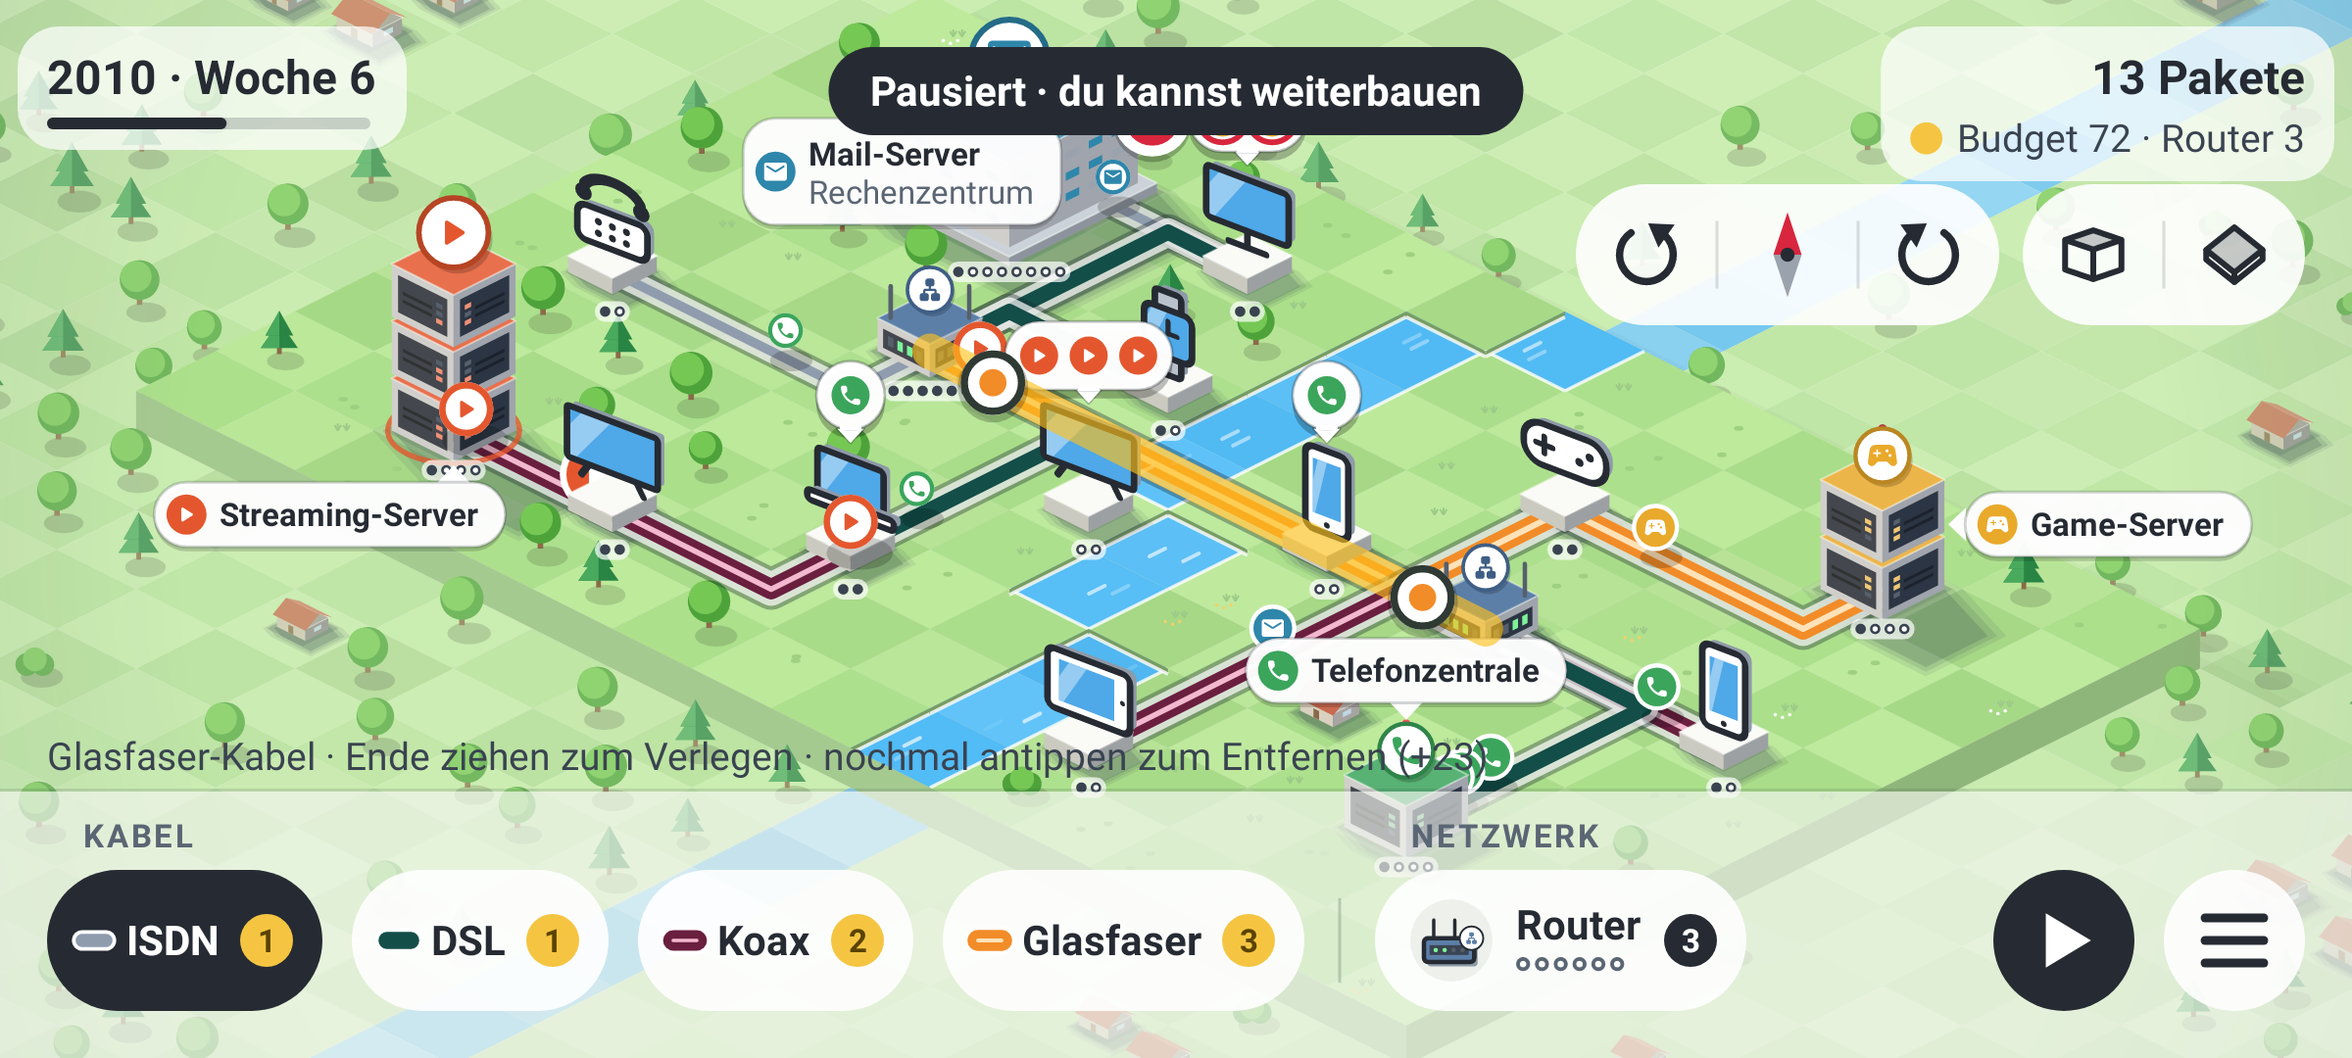
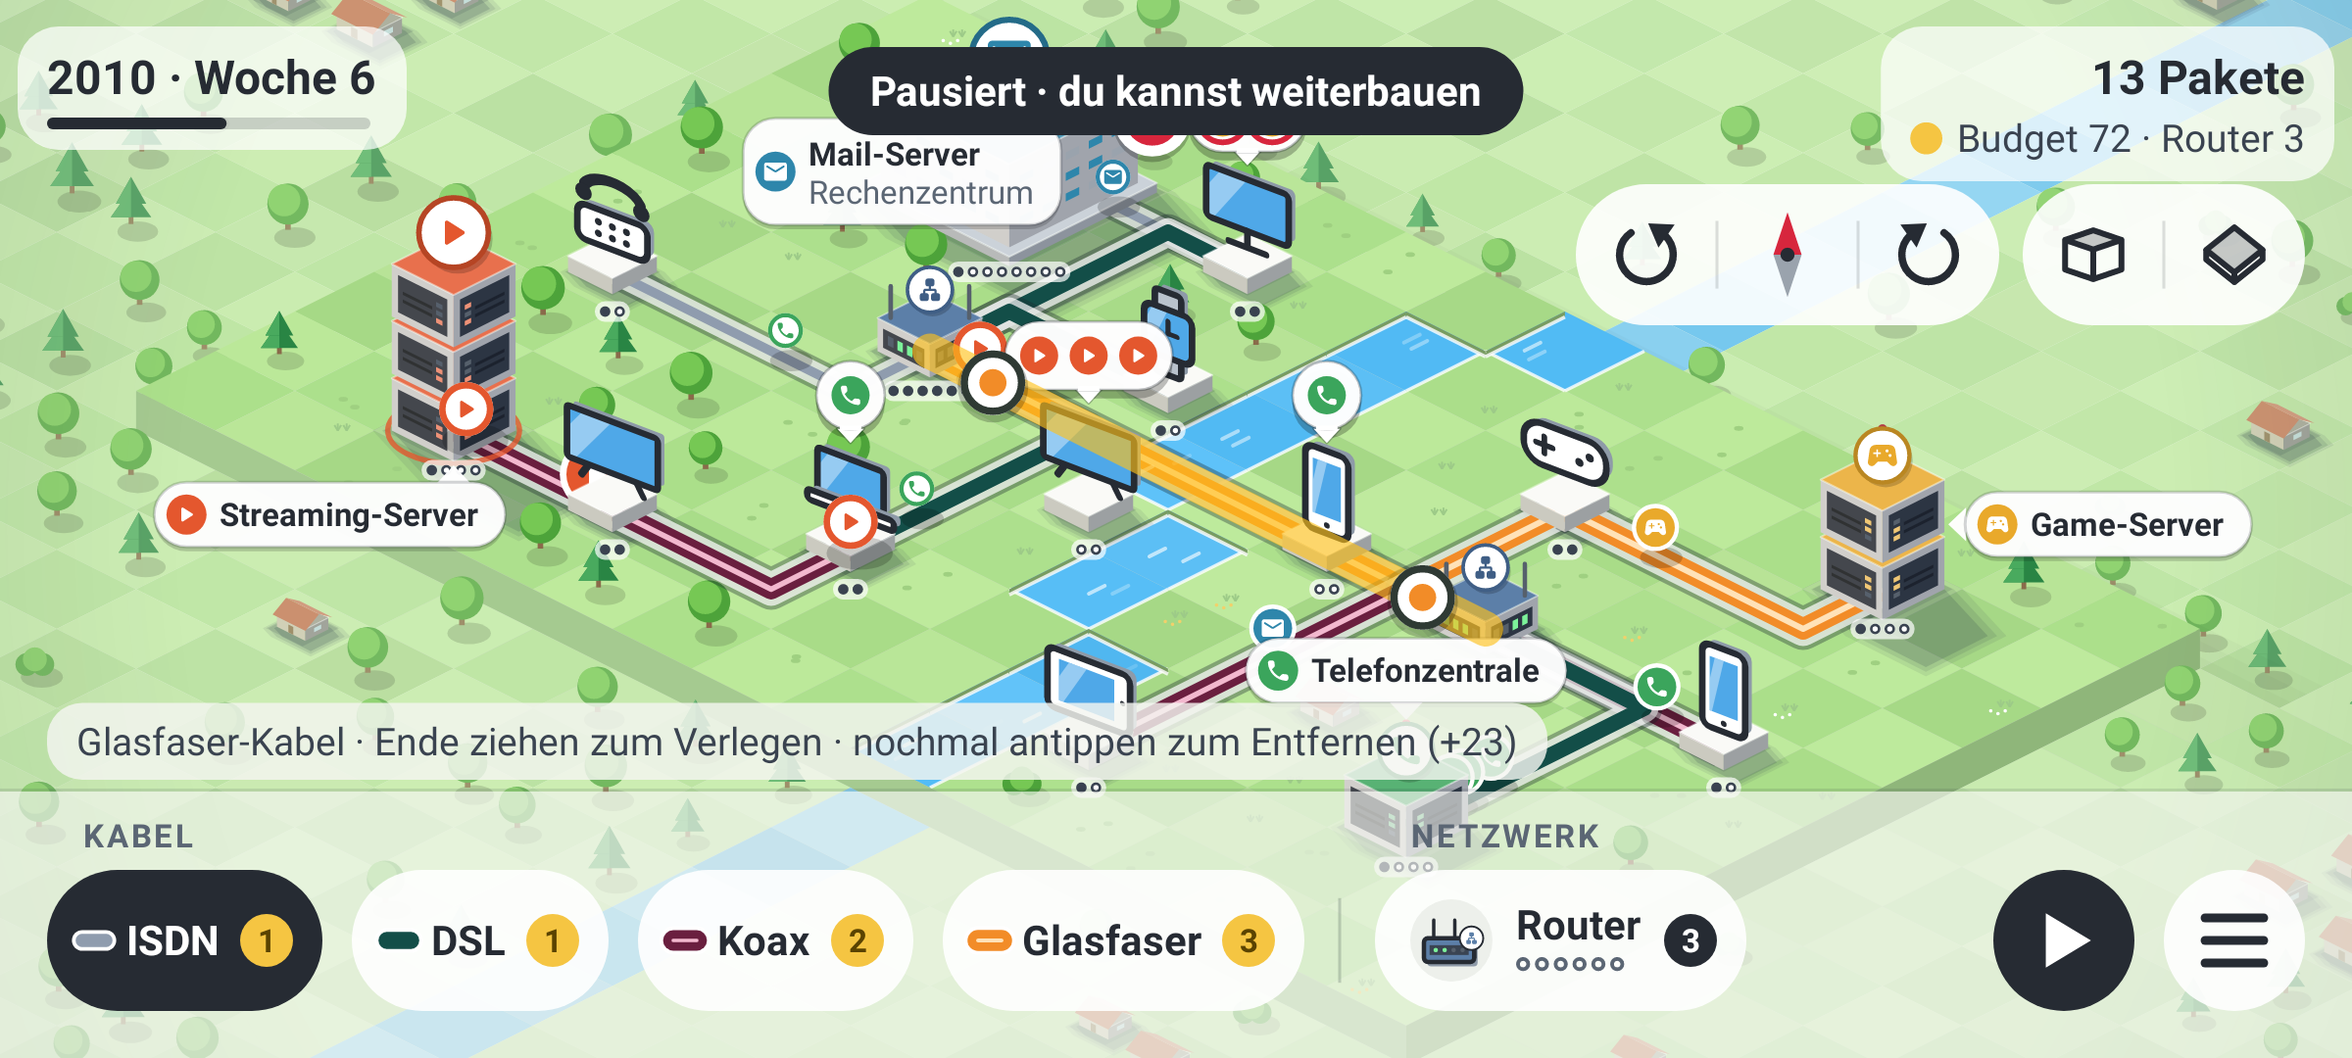
Polish HUD hint plate, keep drag bubble on screen, calm red port rings
Hint line gets a frosted rounded plate; the drag bubble flips below the
finger or clamps inside the safe area; only full nodes near the finger
get the red ring while dragging a cable.

Changed region(s): [[0.0, 0.6417, 0.6562, 0.7639]]

diff --git a/app/src/main/java/com/mininetworks/game/ui/GameView.kt b/app/src/main/java/com/mininetworks/game/ui/GameView.kt
@@ -510,6 +510,8 @@ class GameView(context: Context) : SurfaceView(context), SurfaceHolder.Callback 
     private val hudText = Paint(Paint.ANTI_ALIAS_FLAG).apply { color = 0xFF262B33.toInt(); typeface = Typeface.DEFAULT_BOLD; textSize = textScale.px(16f) }
     private val hudSub = Paint(Paint.ANTI_ALIAS_FLAG).apply { color = 0xFF3A4350.toInt(); textSize = textScale.px(13f) }
     private val hudPlate = fill(0xB8FFFFFF.toInt())
+    /** The plate under the hint line: the tray's frosted look, a little denser so text stays readable over buildings. */
+    private val hintPlate = fill(0xD2F4F6F1.toInt())
     private val btnFill = fill(0xE6FFFFFF.toInt())
     private val btnActive = fill(0xFF262B33.toInt())
     private val holdRing = Paint(Paint.ANTI_ALIAS_FLAG).apply { style = Paint.Style.STROKE; strokeCap = Paint.Cap.ROUND }
@@ -1821,7 +1823,9 @@ class GameView(context: Context) : SurfaceView(context), SurfaceHolder.Callback 
         drawTray(canvas, bar)
         drawToolbar(canvas, bar)
         // Above the whole toolbar, the raised network row too: a long word must never run into it.
-        val hintY = (bar.raised?.top ?: bar.trayTop) - hudSub.descent() - 4 * density
+        val hintPadX = HINT_PAD_X_DP * density
+        val hintPadY = HINT_PAD_Y_DP * density
+        val hintY = (bar.raised?.top ?: bar.trayTop) - hudSub.descent() - hintPadY - 4 * density
         // No hint under a menu card: the game-over card and the pause menu cover that spot.
         val hintText = when {
             screen != Screen.PLAYING -> null
@@ -1835,7 +1839,7 @@ class GameView(context: Context) : SurfaceView(context), SurfaceHolder.Callback 
             val lineH = hudSub.textSize * 1.3f
             // As many lines as fit between the top rows (and the centered lines) and the buttons (floor: a line that
             // would reach into the rows above does not count).
-            var room = floor((hintY - hudSub.textSize - maxOf(cursor, blocksBottom)) / lineH).toInt() + 1
+            var room = floor((hintY - hudSub.textSize - hintPadY - maxOf(cursor, blocksBottom)) / lineH).toInt() + 1
             if (room < 1 && controlsShown) {
                 // Not even one line below the view controls (a low window with large text): they step aside while the
                 // hint shows, and the paused pill may go back up beside the counters.
@@ -1845,24 +1849,27 @@ class GameView(context: Context) : SurfaceView(context), SurfaceHolder.Callback 
                     cursor = cursorWithoutBanner
                     banner = placePausedBanner(center, right - left, ::place)
                 }
-                room = floor((hintY - hudSub.textSize - maxOf(cursor, blocksBottom)) / lineH).toInt() + 1
+                room = floor((hintY - hudSub.textSize - hintPadY - maxOf(cursor, blocksBottom)) / lineH).toInt() + 1
             }
             if (room < 1 && banner != null) {
                 // Not even one line below the paused pill: the pause button shows the stopped clock anyway.
                 banner = null
-                room = floor((hintY - hudSub.textSize - maxOf(cursorWithoutBanner, blocksBottom)) / lineH).toInt() + 1
+                room = floor((hintY - hudSub.textSize - hintPadY - maxOf(cursorWithoutBanner, blocksBottom)) / lineH).toInt() + 1
             }
             // Service pictograms in the text ([InlineGlyphs]) are laid out as gaps and painted as tokens into them.
             val glyphs = InlineGlyphs.services(it)
-            val lines = wrapText(InlineGlyphs.layout(it), right - left, hudSub, room.coerceIn(1, MAX_HINT_LINES))
+            val lines = wrapText(InlineGlyphs.layout(it), right - left - 2 * hintPadX, hudSub, room.coerceIn(1, MAX_HINT_LINES))
+            val w = lines.maxOf { l -> hudSub.measureText(l) }
+            // A calm frosted plate (the tray's look) keeps the text readable over buildings; it hugs the wrapped lines.
+            val plate = RectF(left, hintY - (lines.size - 1) * lineH - hudSub.textSize - hintPadY, left + w + 2 * hintPadX, hintY + hudSub.descent() + hintPadY)
+            canvas.drawRoundRect(plate, HINT_RADIUS_DP * density, HINT_RADIUS_DP * density, hintPlate)
             var glyph = 0
             lines.forEachIndexed { i, line ->
                 val ly = hintY - (lines.size - 1 - i) * lineH
-                canvas.drawText(line, left, ly, hudSub)
-                if (glyphs.isNotEmpty()) glyph = InlineGlyphs.drawTokens(canvas, line, left, ly, hudSub, glyphs, glyph)
+                canvas.drawText(line, left + hintPadX, ly, hudSub)
+                if (glyphs.isNotEmpty()) glyph = InlineGlyphs.drawTokens(canvas, line, left + hintPadX, ly, hudSub, glyphs, glyph)
             }
-            val w = lines.maxOf { l -> hudSub.measureText(l) }
-            hudNodes += UiNode("hud:hint", RectF(left, hintY - (lines.size - 1) * lineH - hudSub.textSize, left + w, hintY + hudSub.descent()), InlineGlyphs.plain(it), UiNode.Kind.TEXT)
+            hudNodes += UiNode("hud:hint", plate, InlineGlyphs.plain(it), UiNode.Kind.TEXT)
         }
         banner?.let { drawPausedBanner(canvas, it) }
         if (controlsShown) {
@@ -4216,6 +4223,10 @@ class GameView(context: Context) : SurfaceView(context), SurfaceHolder.Callback 
         const val HINT_SECONDS = 2.5f
         /** Lines a long hint (or one in large text) wraps into above the bottom buttons. */
         const val MAX_HINT_LINES = 3
+        /** Padding (dp) around the hint line's text inside its backdrop plate, and the plate's corner radius. */
+        const val HINT_PAD_X_DP = 10f
+        const val HINT_PAD_Y_DP = 5f
+        const val HINT_RADIUS_DP = 12f
         /** How long the camera shows the failed device before the game-over card. */
         const val GAME_OVER_FOCUS_SECONDS = 1.6f
         /** Longer hints: what a new service needs, why a device is stuck. */

diff --git a/app/src/main/java/com/mininetworks/game/render/PortDots.kt b/app/src/main/java/com/mininetworks/game/render/PortDots.kt
@@ -5,17 +5,25 @@ import android.graphics.Paint
 import android.graphics.RectF
 import com.mininetworks.game.game.Node
 import com.mininetworks.game.game.World
+import kotlin.math.hypot
 
 /**
  * A node's cable ports as a small row of dots on a frosted pill, upright below the node in both styles: one dot per
  * port ([Node.maxPorts]), filled ink while a cable uses it, a hollow ring while free, so the map says that a PC takes
  * only 2 cables and a router 6. Calm by default and hidden below [MIN_UNIT_DP] of zoom; while a cable is dragged
  * ([emphasis]) the dragged node and the one under the finger show theirs larger with the free ports in blue, and every
- * node with no free port gets red dots and a red ring, at any zoom.
+ * node with no free port gets red dots at any zoom, with a red ring only where it matters: on the node under the
+ * finger and on those within [RING_RADIUS_CELLS] of it, so a busy map stays calm.
  */
 object PortDots {
-    /** How loud a row is: [CALM] on the map, [OPEN] at the ends of a dragged cable, [FULL] for a node a drag cannot use. */
-    enum class Emphasis { CALM, OPEN, FULL }
+    /**
+     * How loud a row is: [CALM] on the map, [OPEN] at the ends of a dragged cable, [FULL] for a node a drag cannot use
+     * near the finger (red dots and ring), [FULL_QUIET] for one farther off (red dots only).
+     */
+    enum class Emphasis { CALM, OPEN, FULL, FULL_QUIET }
+
+    /** Distance (cells) from the finger within which a full node also gets its red ring during a drag. */
+    const val RING_RADIUS_CELLS = 3f
 
     private const val INK = 0xFF3A4350.toInt()
     private const val FREE = 0xFFFFFFFF.toInt()
@@ -35,11 +43,16 @@ object PortDots {
 
     /**
      * How [n] shows its ports right now, or null for no row: with no [drag], [CALM] when [visible]; during a drag,
-     * [FULL] for every node without a free port, [OPEN] for the drag's start and target, [CALM] for the rest.
+     * a node without a free port is [FULL] if it is the target, the start or within [RING_RADIUS_CELLS] of the finger
+     * and [FULL_QUIET] otherwise, [OPEN] for the drag's start and target, [CALM] for the rest.
      */
     fun emphasis(world: World, n: Node, drag: DragPreview?, show: Boolean): Emphasis? {
         if (drag != null) {
-            if (world.ports(n) >= n.maxPorts) return Emphasis.FULL
+            if (world.ports(n) >= n.maxPorts) {
+                val c = n.footprintCenter
+                val near = n === drag.target || n === drag.from || hypot(c.x - drag.end.x, c.y - drag.end.y) <= RING_RADIUS_CELLS
+                return if (near) Emphasis.FULL else Emphasis.FULL_QUIET
+            }
             if (n === drag.from || n === drag.target) return Emphasis.OPEN
         }
         return if (show) Emphasis.CALM else null
@@ -56,7 +69,7 @@ object PortDots {
         val max = n.maxPorts
         val used = world.ports(n).coerceAtMost(max)
         val base = (unitPx * 0.045f).coerceIn(1.8f * density, 3.2f * density)
-        val r = if (emphasis == Emphasis.CALM) base else maxOf(base * 1.35f, 3f * density)
+        val r = if (emphasis == Emphasis.CALM || emphasis == Emphasis.FULL_QUIET) base else maxOf(base * 1.35f, 3f * density)
         val step = r * 2.75f
         val pad = r * 0.95f
         val w = (max - 1) * step + 2 * r + 2 * pad
@@ -69,9 +82,9 @@ object PortDots {
             canvas.drawOval(pill, ringP)
         }
         pill.set(cx - w / 2f, cy - h / 2f, cx + w / 2f, cy + h / 2f)
-        fillP.color = if (emphasis == Emphasis.CALM) 0xB3FFFFFF.toInt() else 0xF2FFFFFF.toInt()
+        fillP.color = if (emphasis == Emphasis.CALM || emphasis == Emphasis.FULL_QUIET) 0xB3FFFFFF.toInt() else 0xF2FFFFFF.toInt()
         canvas.drawRoundRect(pill, h / 2f, h / 2f, fillP)
-        if (emphasis != Emphasis.CALM) {
+        if (emphasis != Emphasis.CALM && emphasis != Emphasis.FULL_QUIET) {
             ringP.color = if (emphasis == Emphasis.FULL) FULL_RED else OPEN_RING
             ringP.strokeWidth = maxOf(1f * density, r * 0.3f)
             canvas.drawRoundRect(pill, h / 2f, h / 2f, ringP)
@@ -80,7 +93,7 @@ object PortDots {
         var x = cx - (max - 1) * step / 2f
         for (i in 0 until max) {
             if (i < used) {
-                fillP.color = if (emphasis == Emphasis.FULL) FULL_RED else INK
+                fillP.color = if (emphasis == Emphasis.FULL || emphasis == Emphasis.FULL_QUIET) FULL_RED else INK
                 canvas.drawCircle(x, cy, r, fillP)
             } else {
                 fillP.color = FREE

diff --git a/app/src/main/java/com/mininetworks/game/render/Renderer.kt b/app/src/main/java/com/mininetworks/game/render/Renderer.kt
@@ -915,6 +915,31 @@ object DragJuice {
     /** Screen box of the last [bubble], so the server plates ([ServerLabels]) can keep clear of it. */
     val lastBubble = RectF()
 
+    private val boundsRect = RectF()
+
+    /** The room for a [bubble] on [canvas]: the screen inside the camera's [insets] (safe area and HUD), or all of it where they leave none. */
+    fun bounds(canvas: Canvas, insets: ViewInsets): RectF {
+        boundsRect.set(insets.left, insets.top, canvas.width - insets.right, canvas.height - insets.bottom)
+        if (boundsRect.width() < 40f || boundsRect.height() < 40f) boundsRect.set(0f, 0f, canvas.width.toFloat(), canvas.height.toFloat())
+        return boundsRect
+    }
+
+    /**
+     * Puts a bubble of [w] by [h] for the point ([x], [y]) into [out], keeping [margin] to [bounds]: its bottom [lift]
+     * above the point, or, where its top would leave [bounds] (a [tail] tip included), its top [lift] below the point;
+     * then pushed inside vertically. Returns the centre x, clamped so the bubble stays between the side bounds.
+     */
+    internal fun place(w: Float, h: Float, x: Float, y: Float, lift: Float, tail: Float, margin: Float, bounds: RectF, out: RectF): Float {
+        val cx = if (w + 2 * margin >= bounds.width()) bounds.centerX() else x.coerceIn(bounds.left + margin + w / 2f, bounds.right - margin - w / 2f)
+        var top = y - lift - h
+        if (top < bounds.top + margin) top = y + lift
+        val low = bounds.bottom - margin - tail - h
+        val high = bounds.top + margin + tail
+        top = if (low < high) high else top.coerceIn(high, low)
+        out.set(cx - w / 2f, top, cx + w / 2f, top + h)
+        return cx
+    }
+
     /** The glow under a preview line [path] of stroke width [width] pixels in [color]. */
     fun glow(canvas: Canvas, path: Path, color: Int, width: Float) {
         glowP.color = color and 0xFFFFFF or 0x38000000
@@ -974,11 +999,12 @@ object DragJuice {
 
     /**
      * The bubble with [label] (and a smaller [detail] line) whose tail points at ([x], [y]), its bottom [lift] pixels
-     * above that point; [size] is the label's text size.
+     * above that point; [size] is the label's text size. The bubble stays inside [bounds] (the screen minus the safe
+     * area and the HUD): where it would clip at the top it flips below the point, tail up.
      */
     fun bubble(
         canvas: Canvas, label: String, detail: String?, x: Float, y: Float, lift: Float, size: Float, density: Float,
-        labelColor: Int, detailColor: Int, accent: Int,
+        labelColor: Int, detailColor: Int, accent: Int, bounds: RectF = RectF(0f, 0f, canvas.width.toFloat(), canvas.height.toFloat()),
     ) {
         textP.textSize = size
         val w1 = textP.measureText(label)
@@ -989,22 +1015,24 @@ object DragJuice {
         val padY = size * 0.5f
         val w = maxOf(w1, w2) + 2 * padX
         val h = size * 1.15f + (if (detail != null) detailSize * 1.25f else 0f) + 2 * padY
-        val bottom = y - lift
-        val cx = x.coerceIn(w / 2f + 8 * density, canvas.width - w / 2f - 8 * density)
-        rect.set(cx - w / 2f, bottom - h, cx + w / 2f, bottom)
+        val cx = place(w, h, x, y, lift, size * 0.5f, 8 * density, bounds, rect)
+        val flipped = rect.top > y
+        val bottom = rect.bottom
         val r = minOf(h / 2f, size * 0.9f)
         rect.offset(0f, 3f * density)
         canvas.drawRoundRect(rect, r, r, shadowP)
         rect.offset(0f, -3f * density)
         tail.reset()
         val tx = if (rect.width() > 2 * r) x.coerceIn(rect.left + r, rect.right - r) else rect.centerX()
-        tail.moveTo(tx - size * 0.45f, bottom - 1f)
-        tail.lineTo(tx, bottom + size * 0.5f)
-        tail.lineTo(tx + size * 0.45f, bottom - 1f)
+        val edge = if (flipped) rect.top + 1f else bottom - 1f
+        val tip = if (flipped) rect.top - size * 0.5f else bottom + size * 0.5f
+        tail.moveTo(tx - size * 0.45f, edge)
+        tail.lineTo(tx, tip)
+        tail.lineTo(tx + size * 0.45f, edge)
         tail.close()
         canvas.drawPath(tail, bubbleP)
         canvas.drawRoundRect(rect, r, r, bubbleP)
-        lastBubble.set(rect.left, rect.top, rect.right, bottom + size * 0.5f)
+        lastBubble.set(rect.left, if (flipped) tip else rect.top, rect.right, if (flipped) bottom else tip)
         ringP.color = accent; ringP.strokeWidth = 2.5f * density
         canvas.drawRoundRect(rect, r, r, ringP)
         textP.textSize = size; textP.color = labelColor

diff --git a/app/src/test/java/com/mininetworks/game/render/DragJuiceTest.kt b/app/src/test/java/com/mininetworks/game/render/DragJuiceTest.kt
@@ -1,0 +1,59 @@
+package com.mininetworks.game.render
+
+import android.graphics.RectF
+import com.mininetworks.game.game.CableLayout
+import com.mininetworks.game.game.CableType
+import com.mininetworks.game.game.Device
+import com.mininetworks.game.game.Vec2
+import org.junit.Assert.assertEquals
+import org.junit.Assert.assertNotNull
+import org.junit.Assert.assertTrue
+import org.junit.Test
+import org.junit.runner.RunWith
+import org.robolectric.RobolectricTestRunner
+
+/** Where the drag bubble goes ([DragJuice.place]) and which full nodes get a red ring ([PortDots.emphasis]). */
+@RunWith(RobolectricTestRunner::class)
+class DragJuiceTest {
+    private val screen = RectF(0f, 100f, 1000f, 900f)
+    private val out = RectF()
+
+    private fun place(x: Float, y: Float, w: Float = 200f, h: Float = 80f): Float = DragJuice.place(w, h, x, y, lift = 60f, tail = 12f, margin = 8f, bounds = screen, out = out)
+
+    @Test
+    fun bubbleAboveThePointWhenThereIsRoom() {
+        place(500f, 500f)
+        assertEquals(500f - 60f, out.bottom, 0.01f)
+    }
+
+    @Test
+    fun bubbleFlipsBelowNearTheTop() {
+        place(500f, 120f)
+        assertTrue("below the point", out.top > 120f)
+        assertTrue(out.top >= screen.top + 8f + 12f)
+    }
+
+    @Test
+    fun bubbleStaysInsideAtEveryEdge() {
+        for (x in listOf(-50f, 0f, 500f, 1000f, 1200f)) for (y in listOf(-50f, 100f, 500f, 900f, 1200f)) {
+            place(x, y)
+            assertTrue("$x/$y left", out.left >= screen.left + 8f - 0.01f)
+            assertTrue("$x/$y right", out.right <= screen.right - 8f + 0.01f)
+            assertTrue("$x/$y top", out.top >= screen.top + 8f - 0.01f)
+            assertTrue("$x/$y bottom", out.bottom <= screen.bottom - 8f + 0.01f)
+        }
+    }
+
+    @Test
+    fun onlyFullNodesNearTheFingerGetTheRing() {
+        val w = Scenes.hud()
+        val full = w.nodes.first { it.device == Device.PC }
+        check(w.ports(full) == full.maxPorts)
+        val from = w.nodes.first { it.device == Device.WATCH }
+        fun drag(end: Vec2) = DragPreview(from, end, null, CableType.FIBER, CableLayout(listOf(end)), false, null)
+        val c = full.footprintCenter
+        assertEquals(PortDots.Emphasis.FULL, PortDots.emphasis(w, full, drag(Vec2(c.x + 1f, c.y)), false))
+        assertEquals(PortDots.Emphasis.FULL_QUIET, PortDots.emphasis(w, full, drag(Vec2(c.x + 40f, c.y)), false))
+        assertNotNull(PortDots.emphasis(w, full, drag(Vec2(c.x + 40f, c.y)), false))
+    }
+}

diff --git a/app/src/main/java/com/mininetworks/game/render/IsoRenderer.kt b/app/src/main/java/com/mininetworks/game/render/IsoRenderer.kt
@@ -339,6 +339,7 @@ class IsoRenderer : Renderer {
                 DragJuice.bubble(
                     canvas, it, d.detail, sx(end.x, end.y), sy(end.x, end.y), maxOf(th * 2.2f, 40f * density), size, density,
                     if (d.blocked) alarm else 0xFF2F3A34.toInt(), if (d.detailWarning) alarm else 0xFF5B6674.toInt(), col,
+                    DragJuice.bounds(canvas, camera.insets),
                 )
                 DragJuice.lastBubble.let { b -> serverLabels.obstacle(b.left, b.top, b.right, b.bottom, hardEdge = true) }
             }

diff --git a/app/src/main/java/com/mininetworks/game/render/FlatRenderer.kt b/app/src/main/java/com/mininetworks/game/render/FlatRenderer.kt
@@ -304,6 +304,7 @@ class FlatRenderer : Renderer {
                 DragJuice.bubble(
                     canvas, it, d.detail, s.x, s.y, maxOf(cell * 0.9f, 40f * density), maxOf(cell * 0.38f, LABEL_MIN_DP * 1.2f * density), density,
                     if (d.blocked) alarm else ink, if (d.detailWarning) alarm else ink, col,
+                    DragJuice.bounds(canvas, camera.insets),
                 )
                 DragJuice.lastBubble.let { b -> serverLabels.obstacle(b.left, b.top, b.right, b.bottom, hardEdge = true) }
             }
